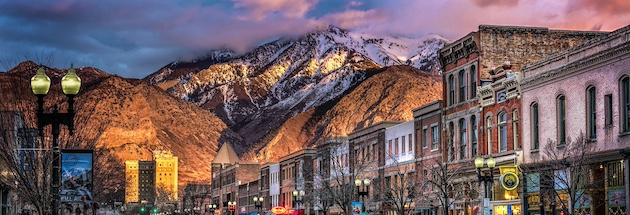
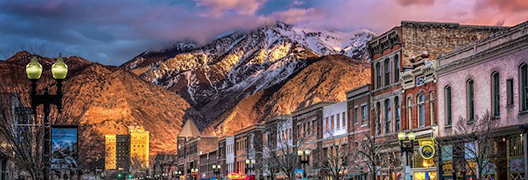
updates

diff --git a/styles/styles.css b/styles/styles.css
@@ -4,34 +4,56 @@
     box-sizing: border-box;
 }
 
+header,.grid,footer {
+    max-width: 840px;
+    margin: 0 auto;
+}
+
+.grid {
+    display: grid;
+    align-items: center;
+}
+
 body{
     font-size: 16px;
     font-family: Roboto, Arial, sans-serif;
 }
 
 main {
-    max-width: 840px;
+    grid-column: 2/3;
+    margin: 1rem;
 }
+
 nav {
     background-color: steelblue;
-    padding: 10px;
+    padding: 1rem;
+    display: flex;
+    justify-content: space-evenly;
+    align-items: center;
 }
+
 nav a {
     color: white;
     display: block;
-    padding: 10px;
+    padding: 0.5rem;
+    text-decoration: none;
+    font-size: 1.2rem;
+    font-weight: 700;
 }
+
 h1 {
     color: steelblue;
-    padding: .5rem
+    padding: 1rem;
+    border: 1px solid steelblue;
 }
 
 img {
-    width: var(--width);
+    width: var(--height);
     height: var(--height);
     border: var(--border);
-    padding: 2px;
+    padding: 1px;
     box-shadow: 0 0 30px gray;
+    text-align: center;
 }
 
 main img {
@@ -50,26 +72,23 @@ p {
 }
 
 aside {
-    width: 25rem;
-    margin: 1rem;
-    border: 1px solid rgb(0, 0, 0, 0.2); /*1⃣*/
-    padding: 1rem;
-    background-color: #eee;
-    color: #333;
-    text-align: var(--text-align);
+    width: 20rem;
+    position: relative;
+    grid-row: 1;
 }
 
 aside img {
-    width: 300px;
-    height: auto;
-    text-align: center;
+    width: 20rem;
     position: relative;
+    grid-column: 1/2;
+    grid-row: 1/2;
+
 }
 
 aside h2 {
     position: absolute;
-    top: 610px;
-    left: 200px;
+    top: 6px;
+    left: 140px;
 
 }
 

diff --git a/index.html b/index.html
@@ -21,6 +21,7 @@
                 <a href=https://facebook.com>Facebook</a>
             </nav>
         </header>
+        <div class= "grid">
         <main>
             <h1>Jessica Orme | WDD 130</h1>
             <img src="images/profile.webp" alt="Hello, my name is Jessica Orme" width="200">
@@ -38,6 +39,7 @@
             <img src="images/OgdenUtahImage1.jpeg" alt="Downtown Ogden">
             <p> Utah is a state that contains the Great Salt Lake and parts of the Rocky Mountains and Uinta Mountains. The western part of the state is desertlike. About 70% of the land is owned by the federal or state government. There are many outdoor activities to enjoy in Utah, including: skiing, hiking in its multiple national parks, biking, and rock climbing. Utah experiences all 4 seasons and should be visited in each of them get a true feel for the area.</p>
         </aside>
+    </div>
         <footer>
             <p>©2024 🫶🏻 Jessica Orme ⚽ Harrisville, UT</p>
         </footer>
